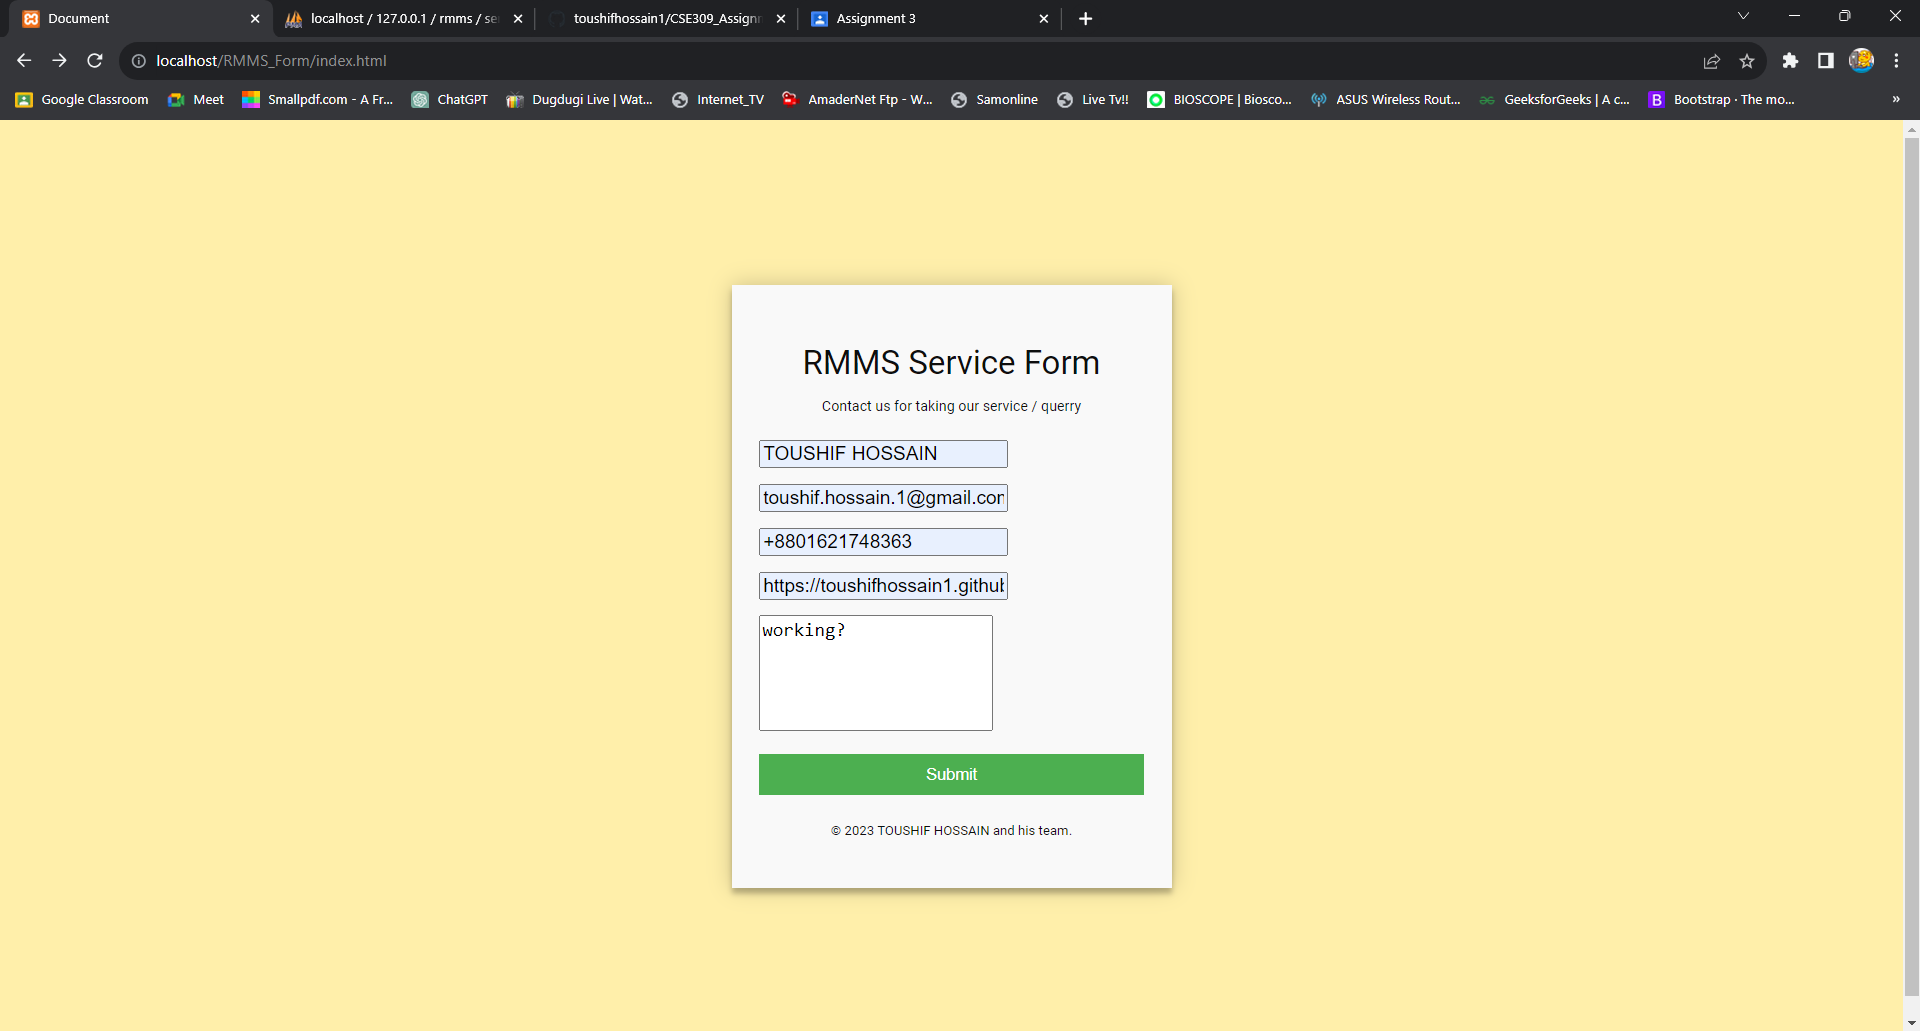
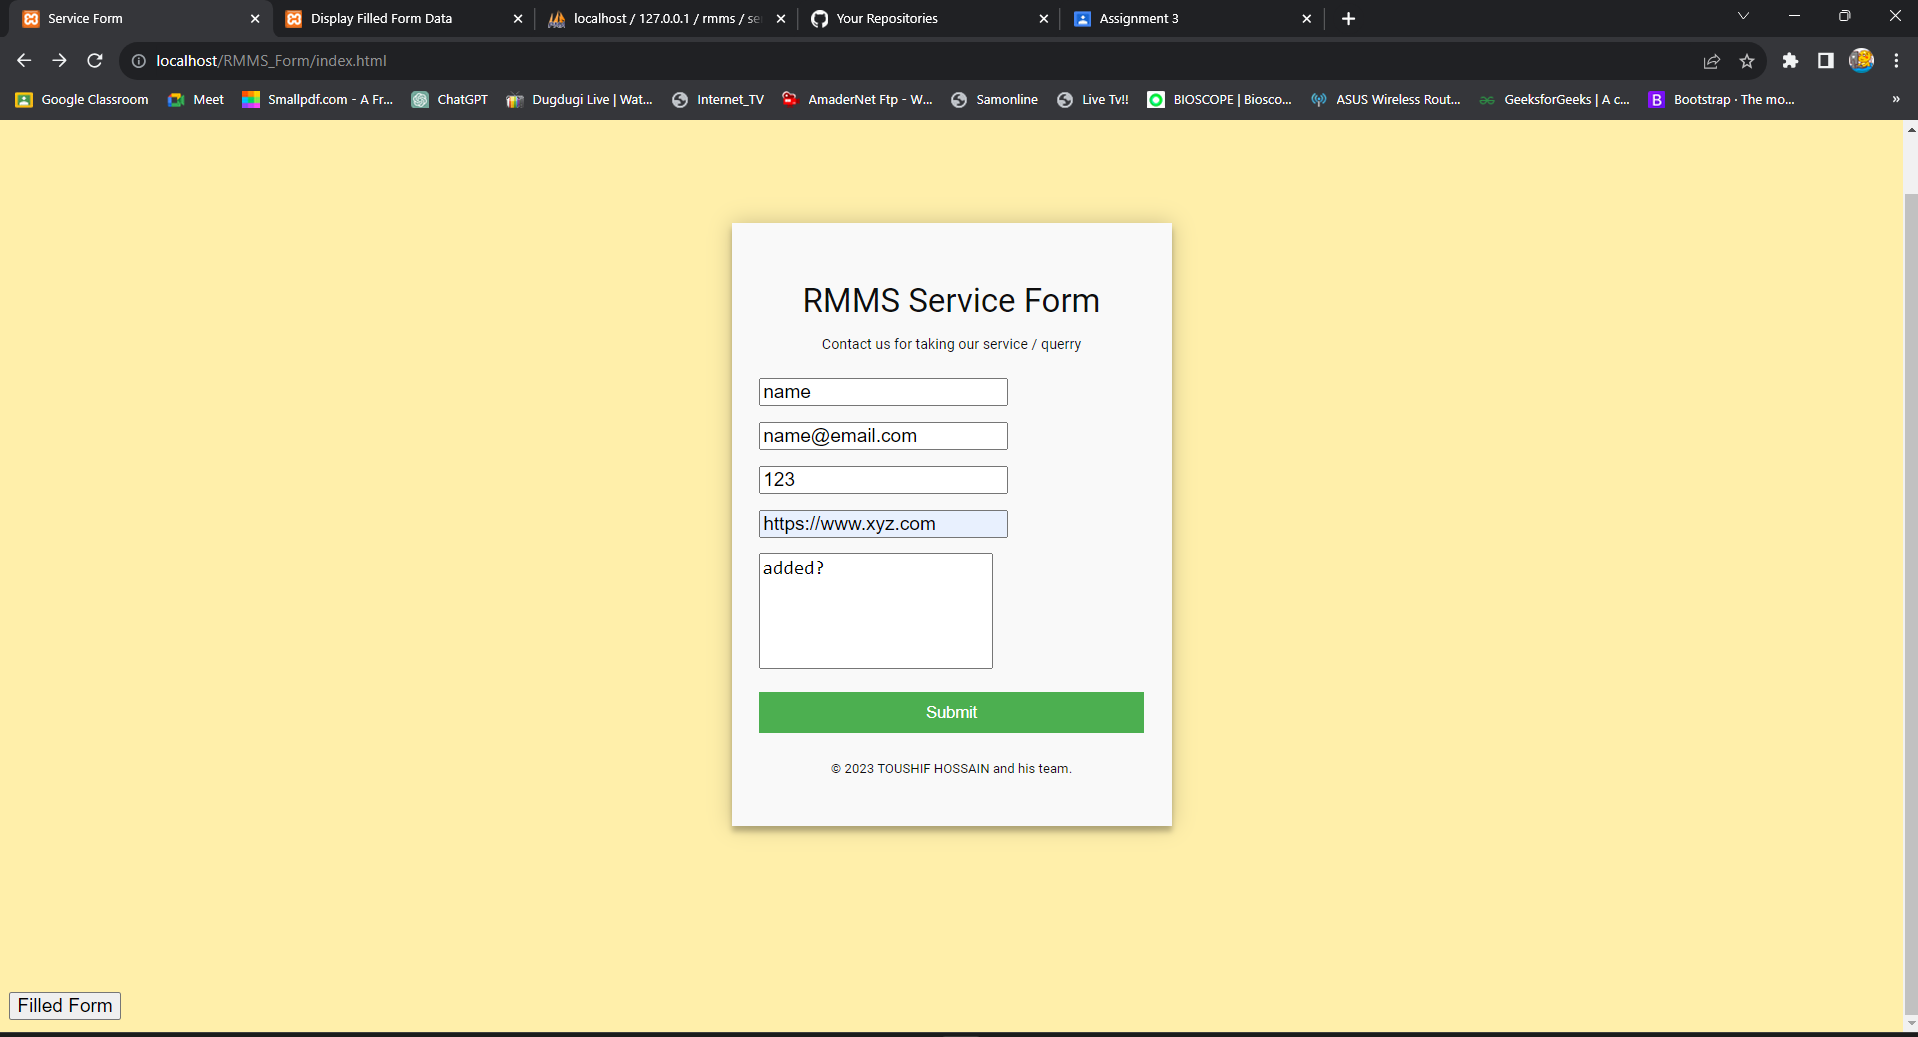
Completed the form and stored data in mySQl also completed retrival and showing in new page

diff --git a/FilledUpFormCSS.css b/FilledUpFormCSS.css
@@ -1,0 +1,19 @@
+body {
+    font-family: "Roboto";
+    font-weight: 100;
+    font-size: 22px;
+    line-height: 30px;
+    color: #000000;
+    background: #ffefaa;
+}
+
+table {
+    background: #f9f9f9;
+    padding: 25px;
+    margin: 15px 0;
+    box-shadow: 0 0 20px 0 rgba(0, 0, 0, 0.2), 0 5px 5px 0 rgba(0, 0, 0, 0.24);
+}
+
+td {
+    font-weight: bolder;
+}

diff --git a/style.css b/style.css
@@ -1,5 +1,5 @@
 body {
-  font-family: "Roboto", Helvetica, Arial, sans-serif;
+  font-family: "Roboto";
   font-weight: 100;
   font-size: 12px;
   line-height: 30px;

diff --git a/index.html b/index.html
@@ -35,6 +35,7 @@
             </p>
         </form>
     </div>
+    <a href="FilledUpForms.php" target="_blank"><button>Filled Form</button></a>
 </body>
 
 </html>

diff --git a/FilledUpForms.php b/FilledUpForms.php
@@ -1,0 +1,57 @@
+<!DOCTYPE html>
+<html lang="en">
+
+<head>
+    <meta charset="UTF-8">
+    <meta name="viewport" content="width=device-width, initial-scale=1.0">
+    <title>Display Filled Form Data</title>
+    <link rel="stylesheet" href="FilledUpFormCSS.css">
+</head>
+
+<body>
+    <h2>Filled Form Data</h2>
+    <div class="container">
+        <table border="1">
+            <thead>
+                <tr>
+                    <th>FullName</th>
+                    <th>Email</th>
+                    <th>PhoneNo</th>
+                    <th>WebAddress</th>
+                    <th>Message</th>
+                </tr>
+            </thead>
+            <tbody>
+                <?php
+                $link = mysqli_connect("localhost", "root", "", "rmms");
+
+                if ($link === false) {
+                    die("Error: Could not connect." . mysqli_connect_error());
+                }
+
+                $sql = "SELECT * FROM serviceform";
+                $result = mysqli_query($link, $sql);
+
+                if ($result) {
+                    while ($row = mysqli_fetch_assoc($result)) {
+                        echo "<tr>";
+                        echo "<td>" . $row['FullName'] . "</td>";
+                        echo "<td>" . $row['Email'] . "</td>";
+                        echo "<td>" . $row['PhoneNo'] . "</td>";
+                        echo "<td>" . $row['WebAddress'] . "</td>";
+                        echo "<td>" . $row['Message'] . "</td>";
+                        echo "</tr>";
+                    }
+                    mysqli_free_result($result); // Free result set
+                } else {
+                    echo "Error: Could not execute $sql." . mysqli_error($link);
+                }
+
+                mysqli_close($link);
+                ?>
+            </tbody>
+        </table>
+    </div>
+</body>
+
+</html>
